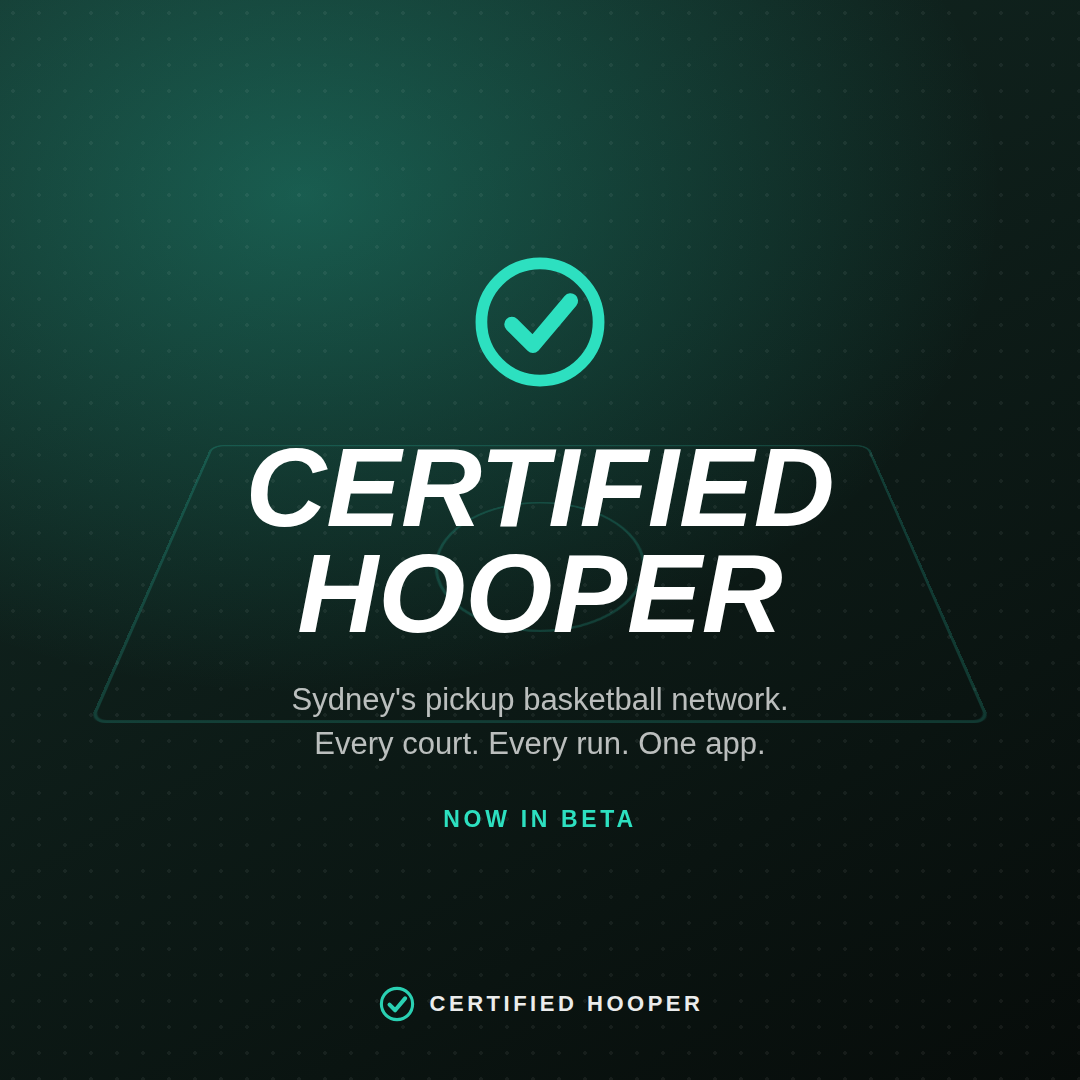
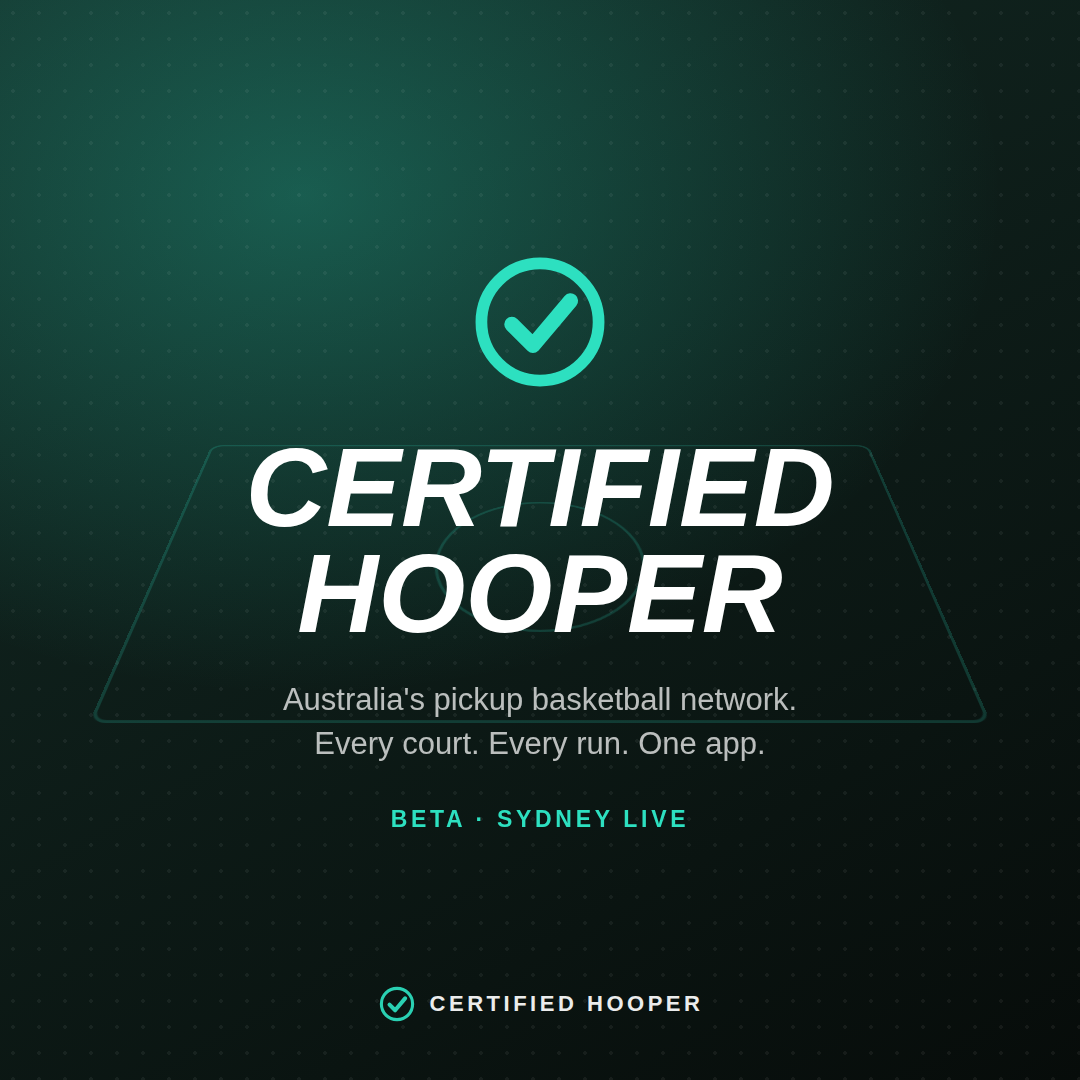
copy: Australia-first, Sydney live in beta
The product is Australia's pickup network; Sydney is just the first
city that's on. Reframed the places that read Sydney-only:

- tutorial slide 1: "Every court in Australia, mapped properly.
  Sydney's live now in beta; every other city is loading."
- footer: names the network, then the beta status
- Tonight eyebrow: SYDNEY -> SYDNEY LIVE
- launch card image: "Australia's pickup basketball network" and
  BETA - SYDNEY LIVE (was "Sydney's pickup basketball network")

Also fixes a duplicated "built in built in Sydney" in the footer.

Claude-Session: https://claude.ai/code/session_013kHg6ZrrgY4qpBCpm4NntE

Changed region(s): [[0.2444, 0.6417, 0.7333, 0.6722], [0.3667, 0.7333, 0.6417, 0.7639]]

diff --git a/hoopsheaven.html b/hoopsheaven.html
@@ -1414,7 +1414,7 @@ body.appin #vHome>.sect:nth-of-type(3){animation-delay:.29s}
     <div class="betapill">BETA · INVITE ONLY</div>
     <div class="big">🏀</div>
     <h2>Every court.<br><em>Mapped.</em></h2>
-    <p>Sydney's courts are live — lights, hoops, water, the lot. Pick one, get directions, pull up. New courts weekly, new cities as we grow.</p>
+    <p>Every court in Australia, mapped properly — lights, hoops, water, the lot. <b>Sydney's live now</b> in beta; every other city is loading. Pick one, get directions, pull up.</p>
   </div>
   <div class="tslide" data-t="1">
     <div class="big">⚡</div>
@@ -1467,7 +1467,7 @@ body.appin #vHome>.sect:nth-of-type(3){animation-delay:.29s}
       <div class="cscroll" id="nearby"><div class="skel" style="flex:none;width:172px;height:160px"></div><div class="skel" style="flex:none;width:172px;height:160px"></div></div>
     </div>
     <div class="foot">
-      <b>CERTIFIED HOOPER</b> · built in built in Sydney · court data © OpenStreetMap contributors<br>
+      <b>CERTIFIED HOOPER</b> · Australia's pickup basketball network<br>Sydney live in beta · every other city loading · built in Sydney<br>court data © OpenStreetMap contributors<br>
       Runs are player-called, never guaranteed. Pull up, play hard, look after each other.<br>
       <button class="linky" id="rulesLink" style="margin-top:6px">House rules</button>
     </div>
@@ -2379,7 +2379,7 @@ function tnDayLbl(){
   const d=new Date(new Date().toLocaleString('en-US',{timeZone:'Australia/Sydney'}));
   const days=['SUNDAY','MONDAY','TUESDAY','WEDNESDAY','THURSDAY','FRIDAY','SATURDAY'];
   const mo=['JAN','FEB','MAR','APR','MAY','JUN','JUL','AUG','SEP','OCT','NOV','DEC'];
-  return days[d.getDay()]+' · '+d.getDate()+' '+mo[d.getMonth()]+' · SYDNEY';
+  return days[d.getDay()]+' · '+d.getDate()+' '+mo[d.getMonth()]+' · SYDNEY LIVE';
 }
 function storyName(n){
   let s=(n||'').split(/ [—–-] /)[0].replace(/ (Park )?Courts?$/i,'').replace(/ Oval$/i,'');
@@ -2731,7 +2731,7 @@ function paintHeroStat(){
                         :`<span class="hs">🏗 Courts dropping soon</span>`;
   if(here>0)html+=`<span class="hs"><span class="live"></span><b>${here}</b> playing now</span>`;
   else if(runs>0)html+=`<span class="hs"><span class="live"></span><b>${runs}</b> run${runs===1?'':'s'} on</span>`;
-  else if(COURTS.length)html+=`<span class="hs">📍 Sydney</span>`;
+  else if(COURTS.length)html+=`<span class="hs">📍 Sydney · live</span>`;
   el.innerHTML=html; el.classList.add('on');
 }
 function paintNearby(){
